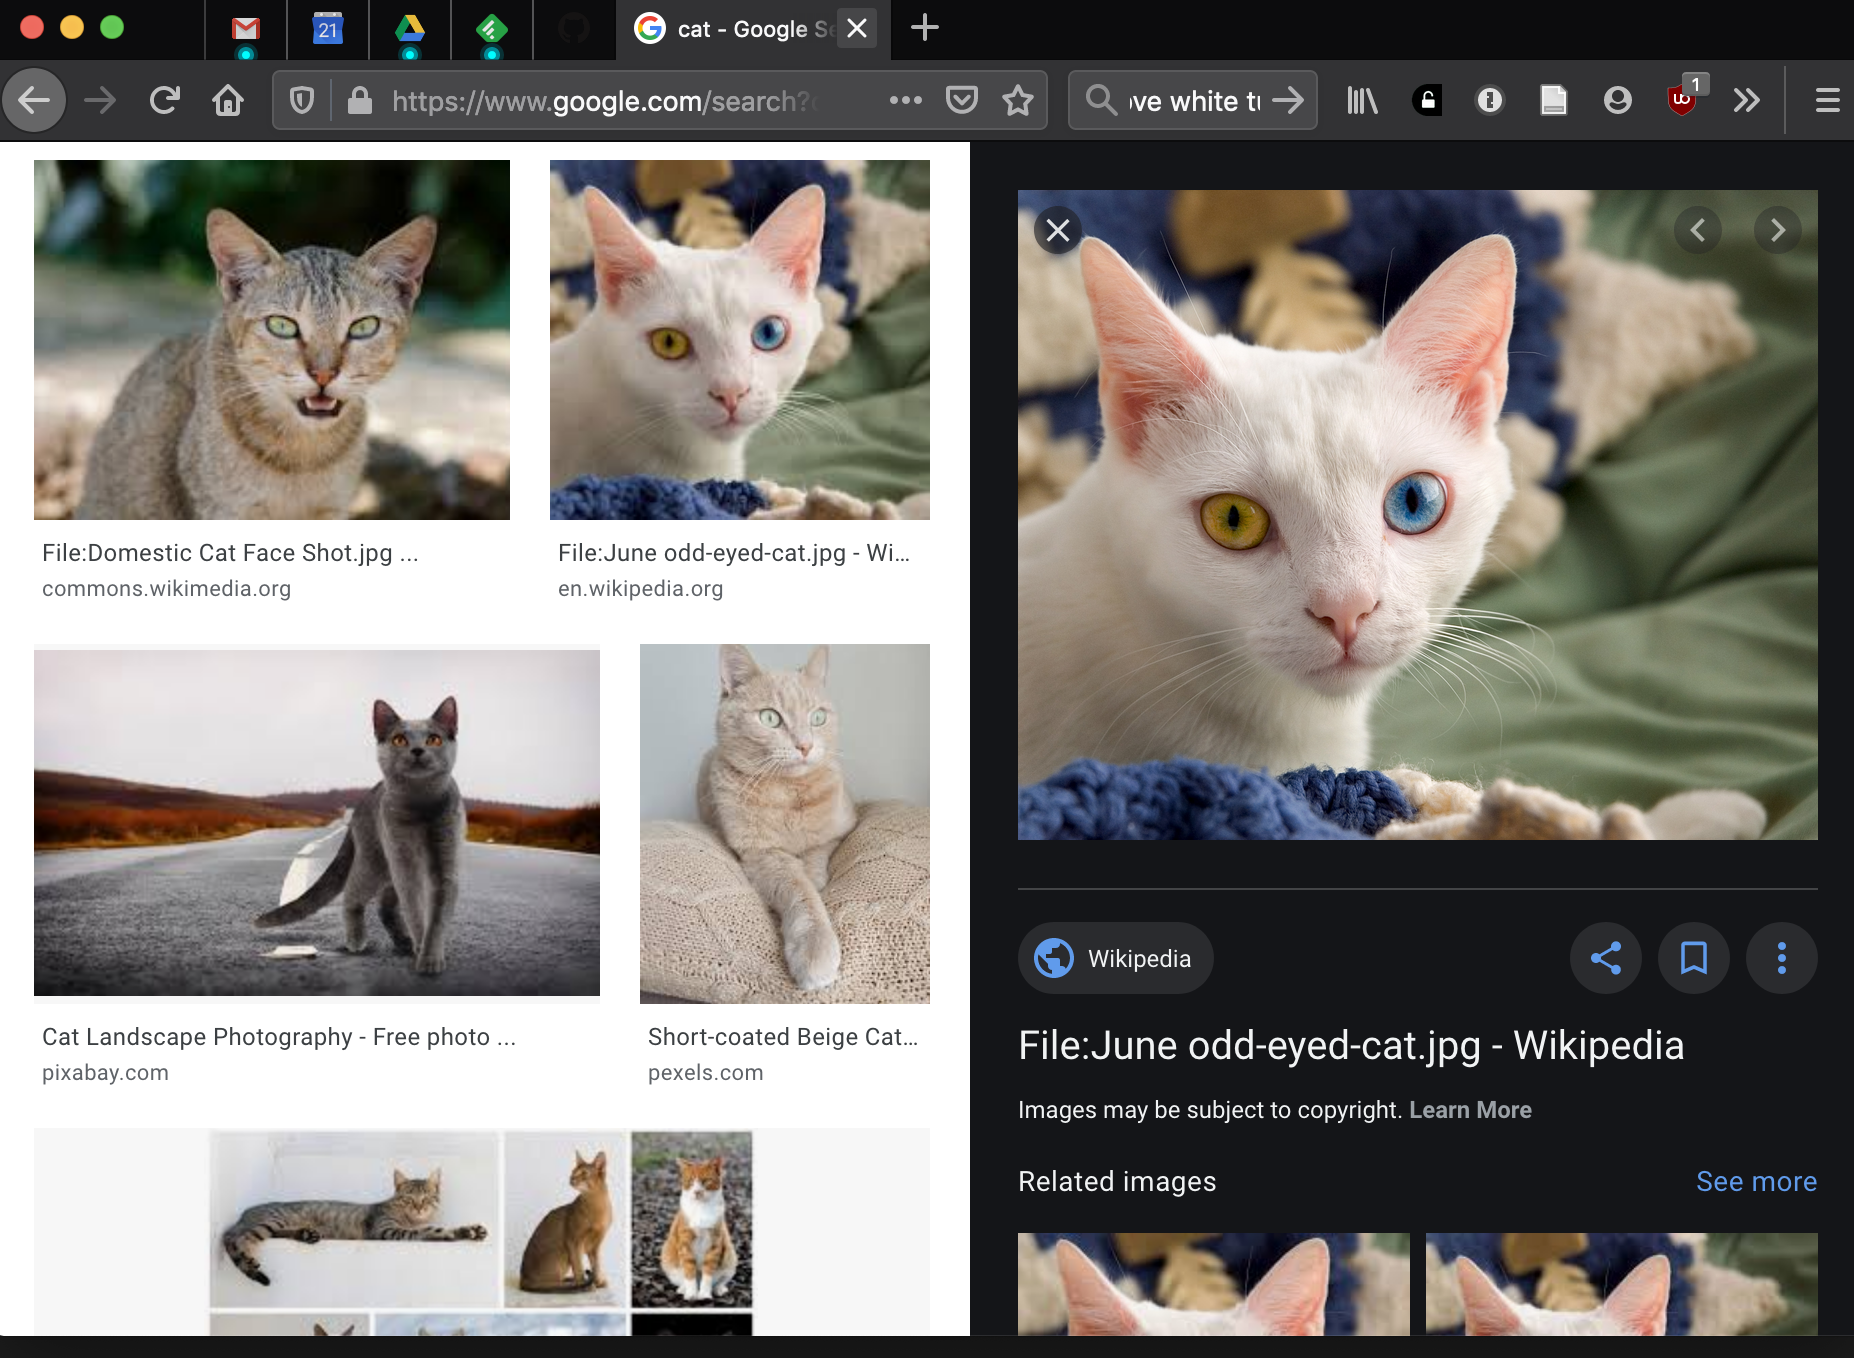
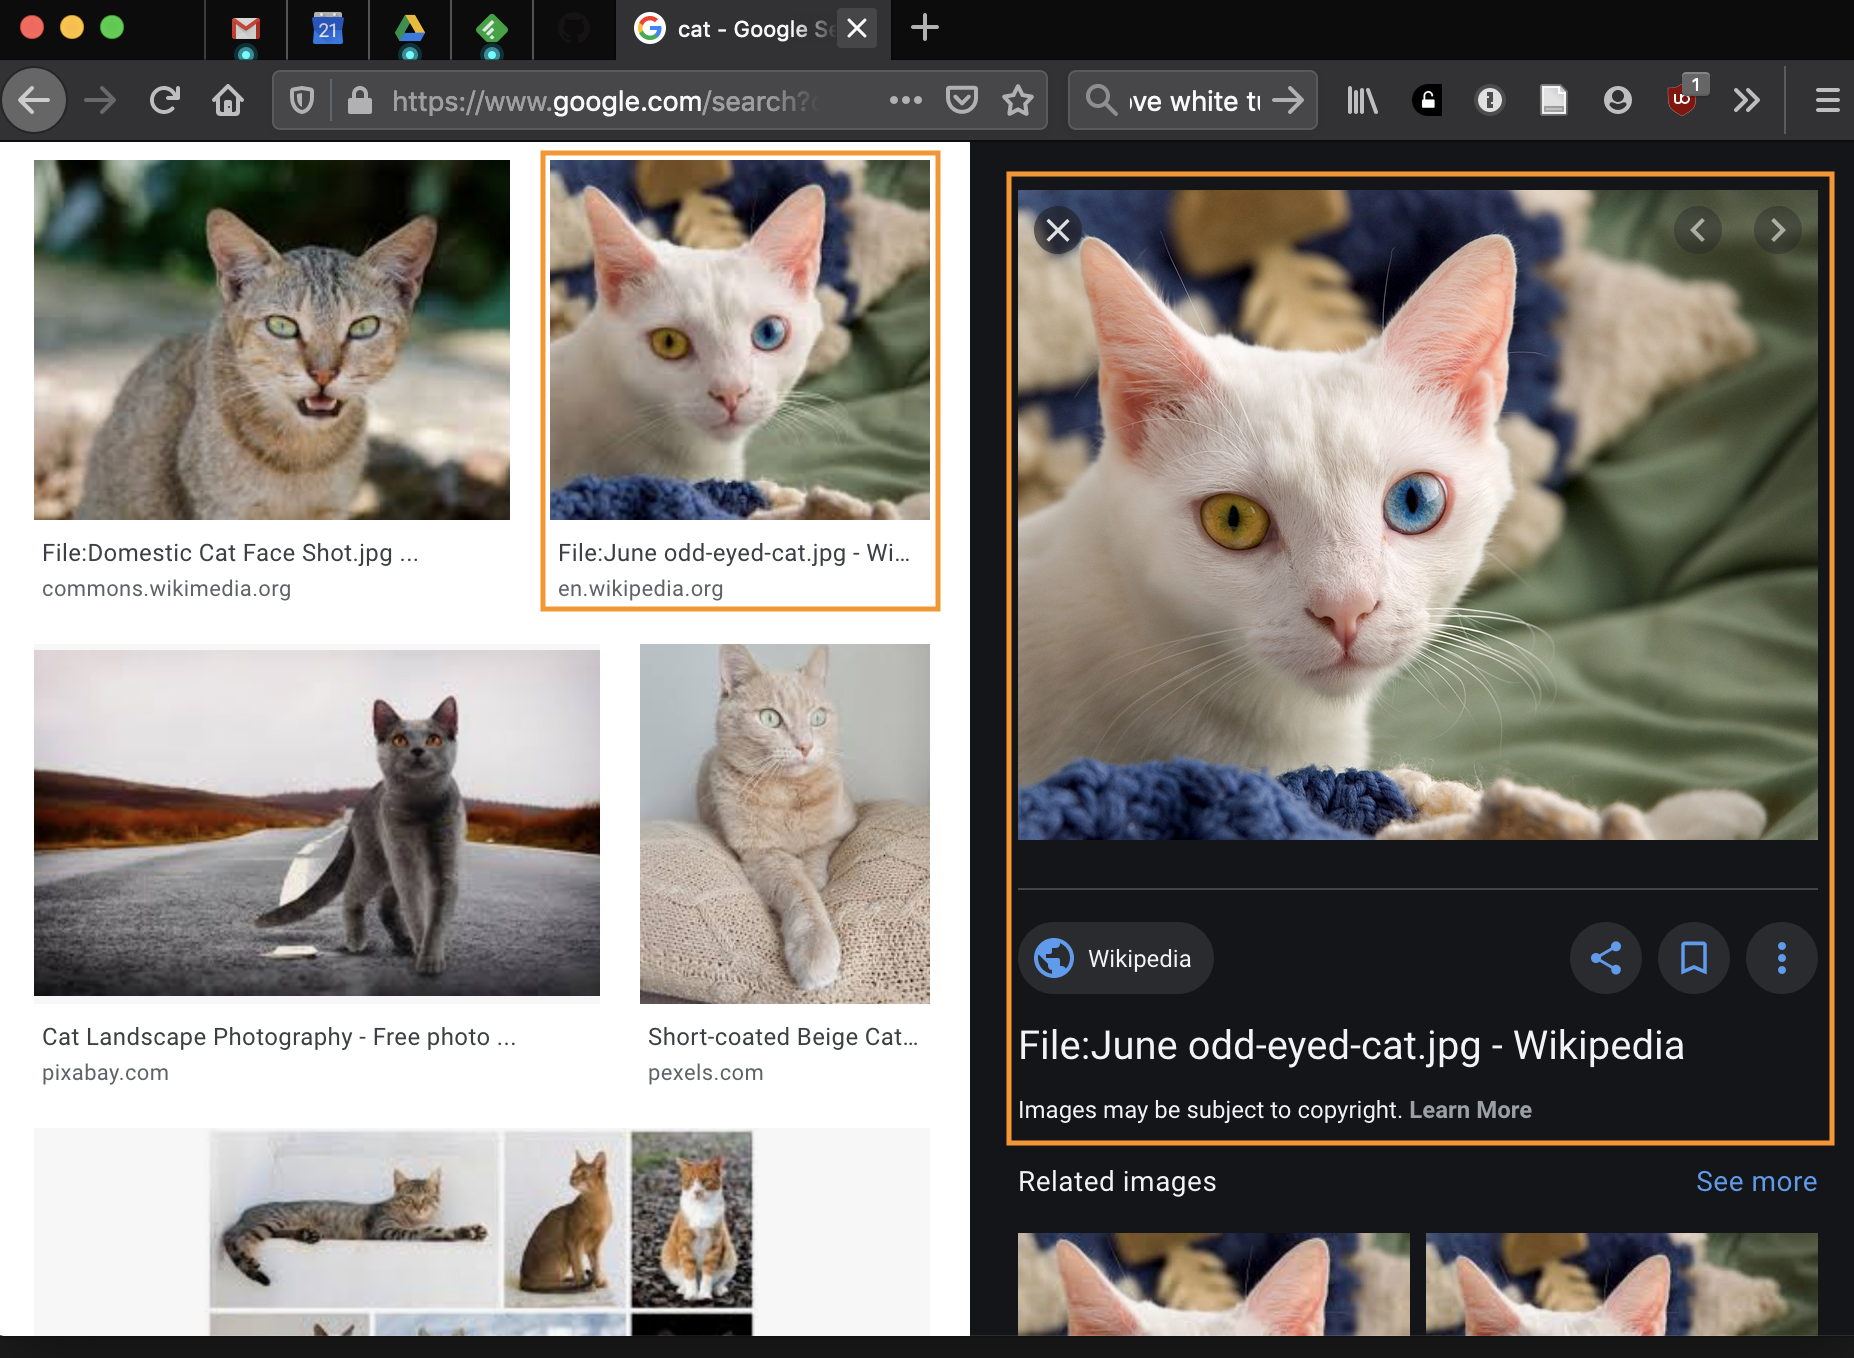
timeline improvements

Changed region(s): [[0.2767, 0.0928, 1.0, 0.8351], [0.5534, 0.8351, 0.9838, 0.866], [0.246, 0.0, 0.2767, 0.0309]]

diff --git a/text-fluid/02_timeline.md b/text-fluid/02_timeline.md
@@ -27,7 +27,7 @@ Note that the images in a TimelineJS timeline are all pulled from locations on t
 
 One challenge to pulling in an image by its URL is that the URL must actually point to *the image file itself*, not to a page generated by, say, Google that merely *contains* the image.
 
-For example, if I google "cat" and then click "Images" below the search box, I get a lot of image thumbnails as my result. If I click one of them, I'm taken to a page that shows a larger version of the image to the right the thumbnails . 
+For example, if I google "cat" and then click "Images" below the search box, I get a lot of image thumbnails as my result. If I click on the thumbnail for an image of a "June odd-eyed cat," available through Wikipedia, I'm taken to a page that shows a larger version of the image to the right of the thumbnails. 
 
 ![Google search result for cat](../images/cat-google.png)
 
@@ -35,31 +35,23 @@ The page has a very long address:
 
 <https://www.google.com/search?q=cat&tbm=isch&hl=en&hl=en&tbs=sur%3Afc&ved=0CAIQpwVqFwoTCMDl6ObvougCFQAAAAAdAAAAABAH&biw=1440&bih=803#imgrc=V7Y4e4Rnz-clTM>
 
-But notice the address doesn't end with one of the typical file extensions for an image, such as `.jpg`, `.png`, or `.gif`. This address won't work in TimelineJS because it's not actually pointing to an image file. Instead, it's pointing to a search results page.
+But notice that the address doesn't end with one of the typical file extensions for an image, such as `.jpg`, `.png`, or `.gif`. This address won't work in TimelineJS because it's not actually pointing to an image file. Instead, it's pointing to a search results page.
 
 Clicking the image in that search results page takes me here:
 
 <https://en.wikipedia.org/wiki/File:June_odd-eyed-cat.jpg>
 
-This looks better – the URL ends with `.jpg` — but careful! This URL still isn't pointing to the image file itself but to a Wikipedia page *about* the file. I can verify this by trying to pull the image into a markdown file, like so: 
+This looks better – the URL ends with `.jpg` — but careful! This URL still isn't pointing to the image file itself but to a Wikipedia page *about* the file. 
 
-`![Image of a cat](https://en.wikipedia.org/wiki/File:June_odd-eyed-cat.jpg)`
+However, if I look beneath the image on the Wikipedia page, I see a link to the "Original file."
 
-If I click the "Preview" button in VS Code, I don't see an image, just my alt-text: "Image of a cat".
+![Wikipedia file page for image of a cat](../images/cat-june.png)
 
-![Image of a cat](https://en.wikipedia.org/wiki/File:June_odd-eyed-cat.jpg)
-
-However, if I look beneath the image on the Wikipedia page, I see a link to the "Original file." Clicking that takes me here:
+Clicking that link takes me here:
 
 <https://upload.wikimedia.org/wikipedia/commons/a/a3/June_odd-eyed-cat.jpg>
 
-Perfect! This will work. Again, I can test with 
-
-`![Image of a cat](https://upload.wikimedia.org/wikipedia/commons/a/a3/June_odd-eyed-cat.jpg)`
-
-Voilà!
-
-![Image of a cat](https://upload.wikimedia.org/wikipedia/commons/a/a3/June_odd-eyed-cat.jpg)
+Perfect! This will work.
 
 ## Assignment
 
